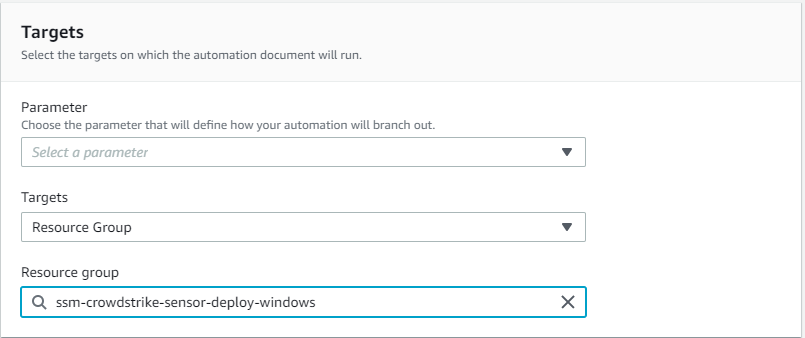
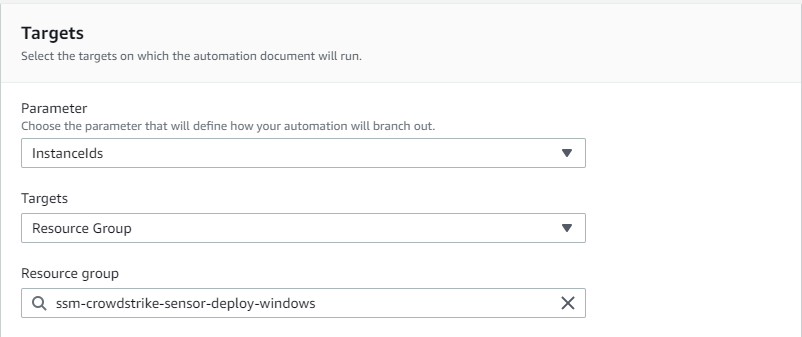
fix issues

diff --git a/deployment-guides/published-distributor-package.md b/deployment-guides/published-distributor-package.md
@@ -114,7 +114,8 @@ The CrowdStrike sensor for windows and linux do not share the same release versi
 
     </p>
     </details>
-5. Under **Targets**, choose the method you want to use to target hosts. For more information on targeting hosts, see [Targeting](https://docs.aws.amazon.com/systems-manager/latest/userguide/running-automations-map-targets.html).
+4. Under **Targets** > **Parameter** choose **InstanceIds**.
+6. Under **Targets** > **Targets** choose the method you want to use to target hosts. For more information on targeting hosts, see [Targeting](https://docs.aws.amazon.com/systems-manager/latest/userguide/running-automations-map-targets.html).
     > **Note:** Whatever method you choose to target your systems with ensure that the targeted systems are running the correct operating system for the distributor package you are using. See [Example Targeting](#Example-Targeting) for an example of targeting systems based on Resource Groups.
     <details><summary>picture</summary>
     <p>
@@ -123,7 +124,7 @@ The CrowdStrike sensor for windows and linux do not share the same release versi
 
     </p>
     </details>
-6. Fill in the required parameters. 
+7. Fill in the required parameters. 
     | Parameter Name | Description | Default Value | Required |
     | --- | --- | --- | --- |
     | PackageName | The Distributor package name. For Windows use FalconSensor-Windows, for Linux use FalconSensor-Linux. | **N/a** | Yes |
@@ -143,7 +144,7 @@ The CrowdStrike sensor for windows and linux do not share the same release versi
 
     </p>
     </details>
-7. Click **Create Association**.
+8. Click **Create Association**.
 
 </p>
 </details>
@@ -157,9 +158,10 @@ Here is an example of creating an association using the AWS CLI that targets a R
 ```bash
 aws ssm create-association \
     --name "CrowdStrike-FalconSensorDeploy" \
-    --targets "Key=resource-groups:Name,Values=ssm-crowdstrike-sensor-deploy-windows" \
-    --parameters "PackageName=FalconSensor-Windows,AutomationAssumeRole=arn:aws:iam::1111111111:role/crowdstrike-ssm-assume-role" \
+    --targets "Key=ResourceGroup,Values=ssm-crowdstrike-sensor-deploy-windows" \
+    --parameters "PackageName=FalconSensor-Windows,AutomationAssumeRole=arn:aws:iam::111111111:role/crowdstrike-ssm-assume-role" \
     --association-name "CrowdStrike-FalconSensorDeploy-Windows" \
+    --automation-target-parameter-name "InstanceIds" \
     --region "us-east-1"
 ``` 
 
